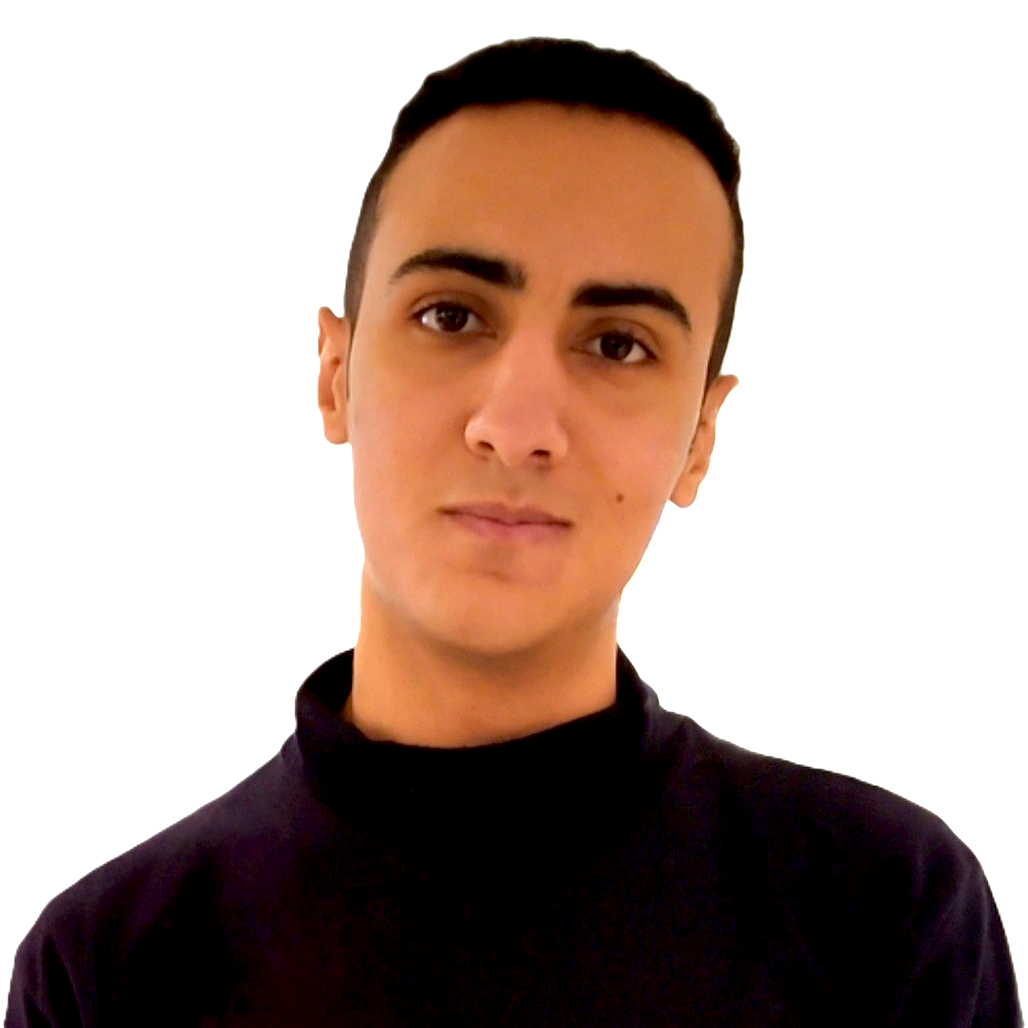
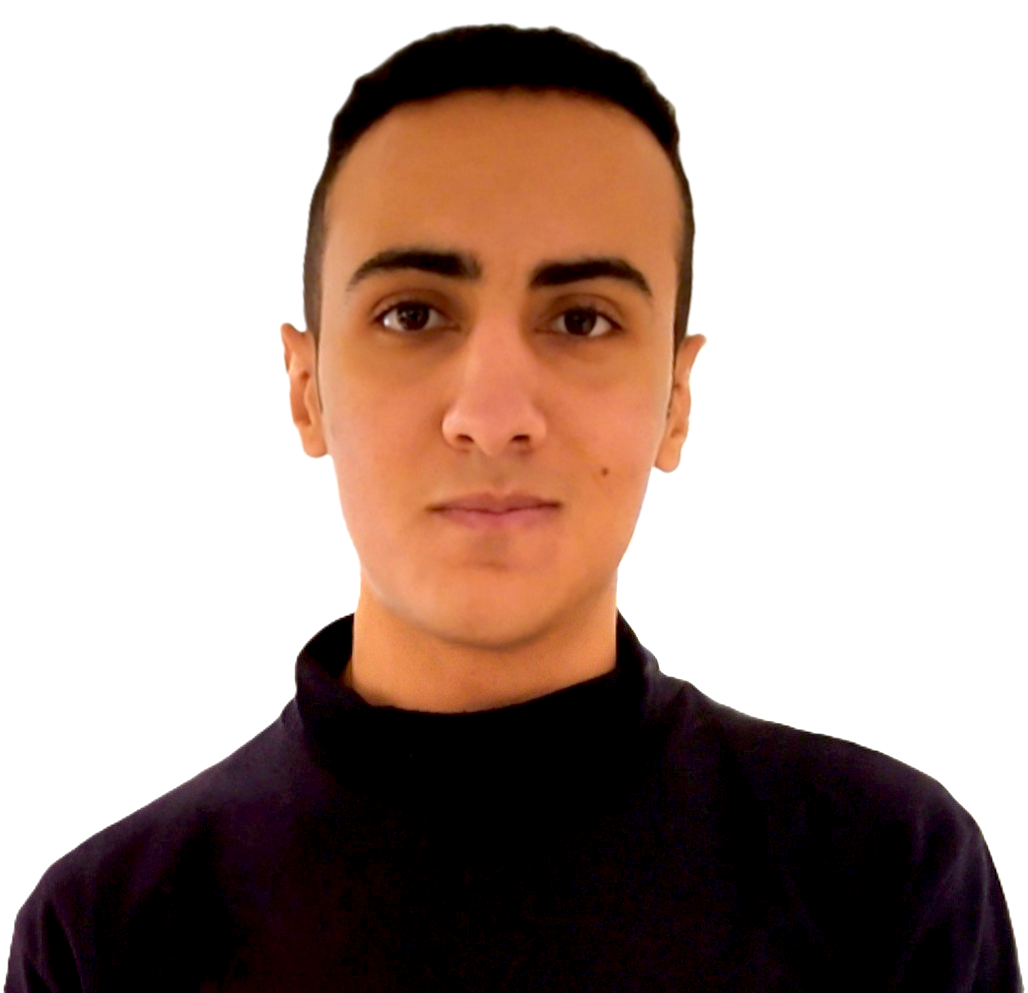
modify Mohamed Tarek profile

diff --git a/html/buildit_leadership/leadership_profiles/mohamed-tarek.html b/html/buildit_leadership/leadership_profiles/mohamed-tarek.html
@@ -44,7 +44,7 @@
                 Chief Executive Officer
             </h2>
         </div>
-        <img class="personal-image" src="/assets/images/leadership_profiles/mohamed_tarek/personal-image.png"
+        <img class="personal-image" src="/assets/images/leadership_profiles/mohamed_tarek/personal-image-cropped.png"
             alt="Picutre of the CEO" id="ceo_picture">
         <div class="row-bio-content">
             <div class="column-bio-content-left">
